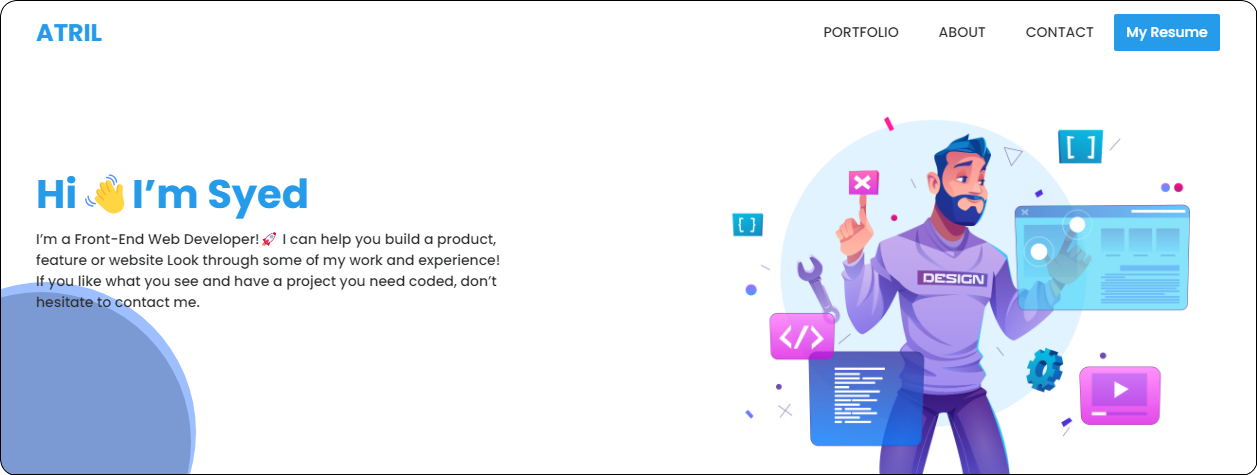
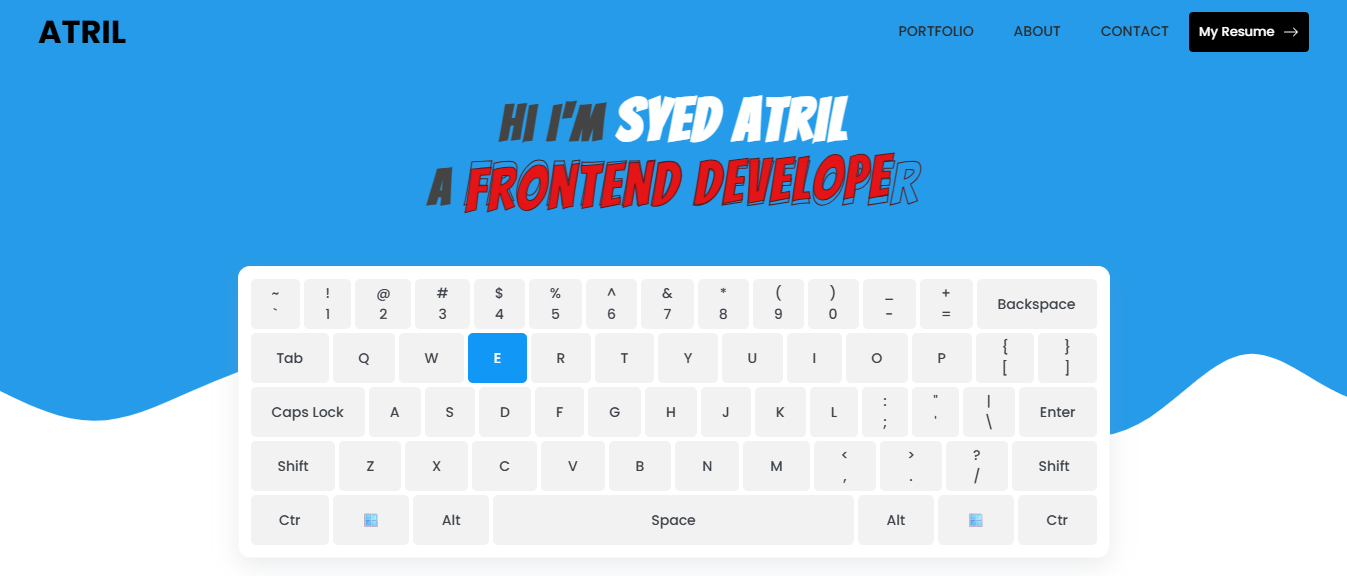
fix issue

diff --git a/src/Components/ProjectInfo.jsx b/src/Components/ProjectInfo.jsx
@@ -1,4 +1,4 @@
-import { Link, useParams } from 'react-router-dom';
+import { useParams } from 'react-router-dom';
 import './Style/projectinfo.css';
 import Navbar from './Navbar';
 import data from './API/Project';
